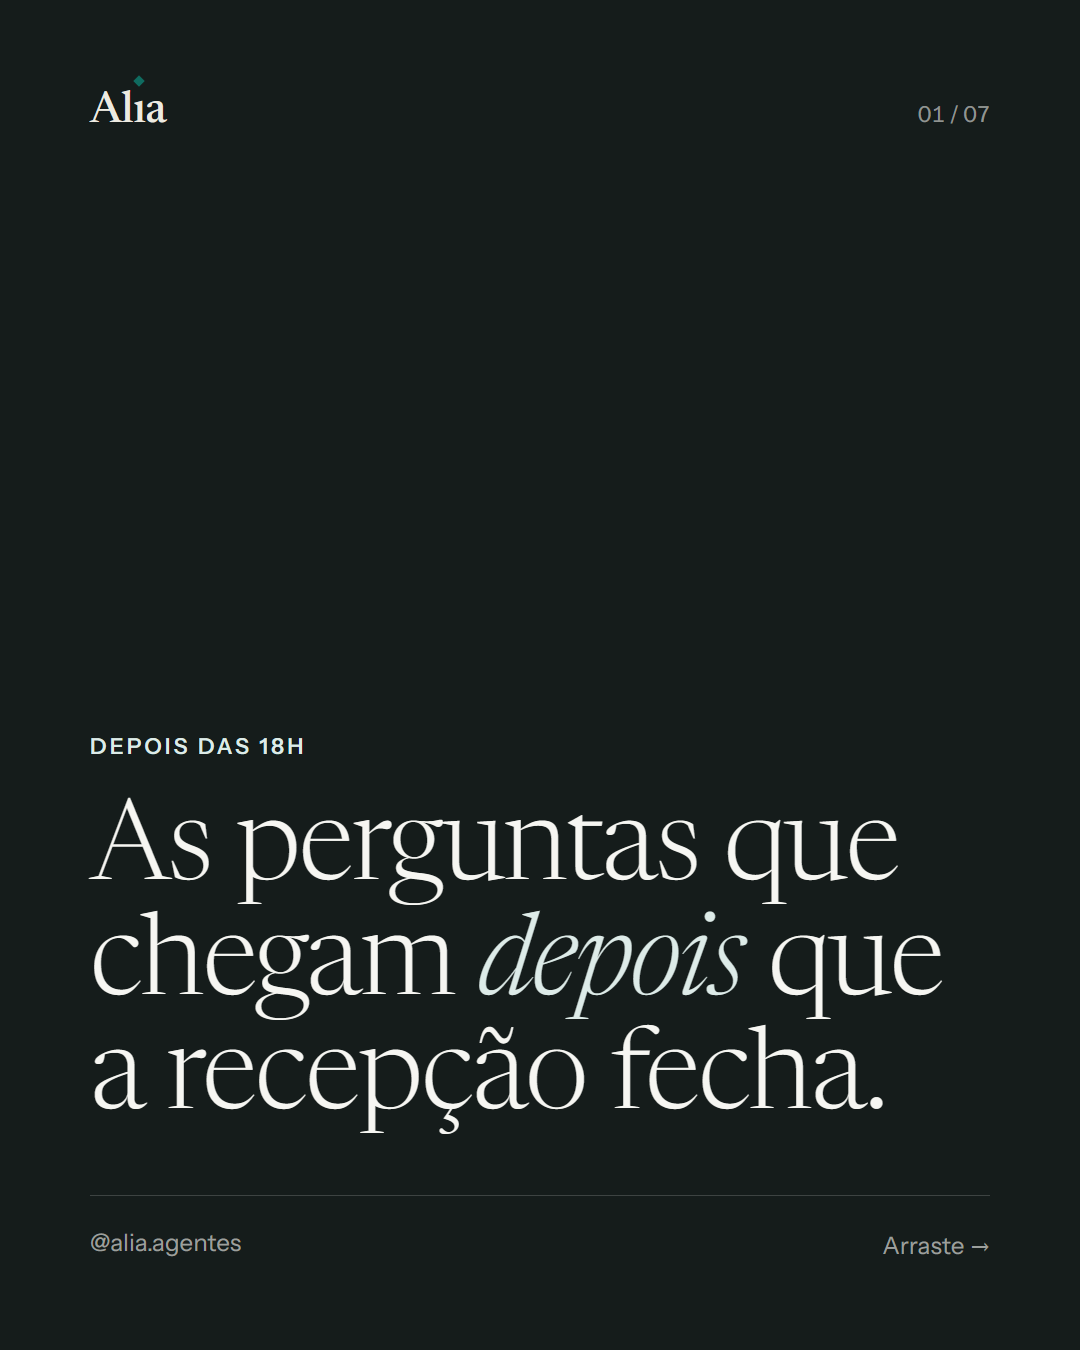
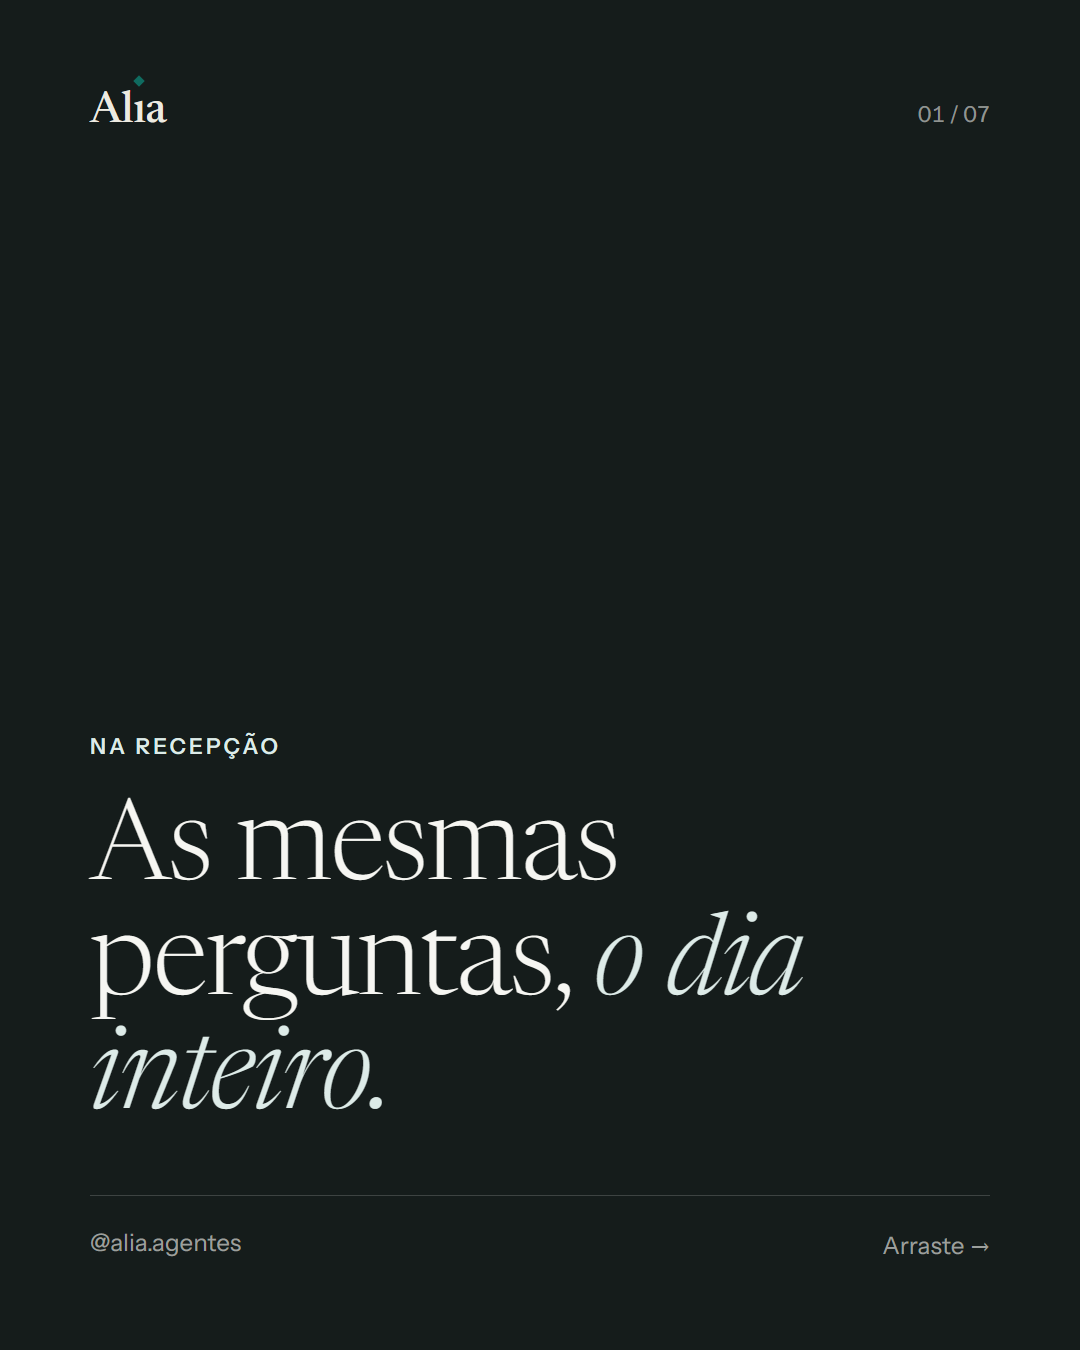
Carrossel de 24/10 com angulo de recepcao sobrecarregada (aprovado pelo Lucas)

Changed region(s): [[0.0917, 0.5911, 0.8861, 0.84], [0.0917, 0.5289, 0.275, 0.56]]

diff --git a/fila/2026-10-24-perguntas-depois-das-18h/legenda.md b/fila/2026-10-24-perguntas-depois-das-18h/legenda.md
@@ -1,11 +1,9 @@
 Quanto custa? Tem horário no sábado? Dói? Aceita Pix?
 
-Essas perguntas chegam todo dia, muitas vezes depois que a recepção já fechou. E cada uma vem de alguém que está decidindo agora.
+A sua recepção responde essas perguntas o dia inteiro, enquanto atende o telefone, recebe quem chega e confirma a agenda de amanhã. As mensagens ficam esperando. E cada uma vem de alguém que está decidindo agora.
 
-Se ninguém responde, ela pergunta para a próxima clínica.
+A Alia constrói agentes de IA que respondem essas perguntas no WhatsApp e no Instagram na hora, com os seus valores e a sua agenda. A sua equipe fica livre para quem está na frente dela.
 
-A Alia constrói agentes de IA que respondem a sua clínica no WhatsApp e no Instagram, a qualquer hora, com os seus valores e a sua agenda.
-
-Salve este post e conte para a gente: qual pergunta mais chega na sua clínica fora do horário?
+Salve este post e conte para a gente: qual pergunta mais chega na sua clínica?
 
 #clinicaestetica #gestaodeclinicas #atendimentoaopaciente #agentesdeia
